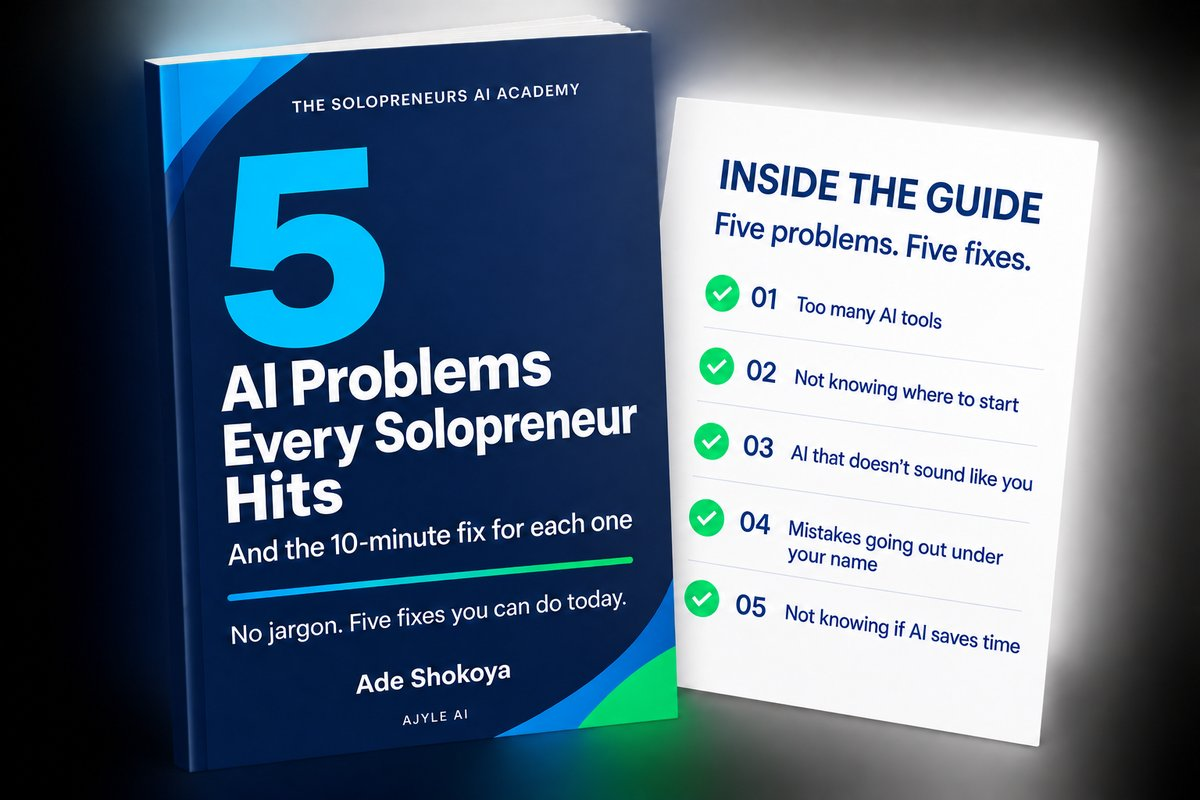
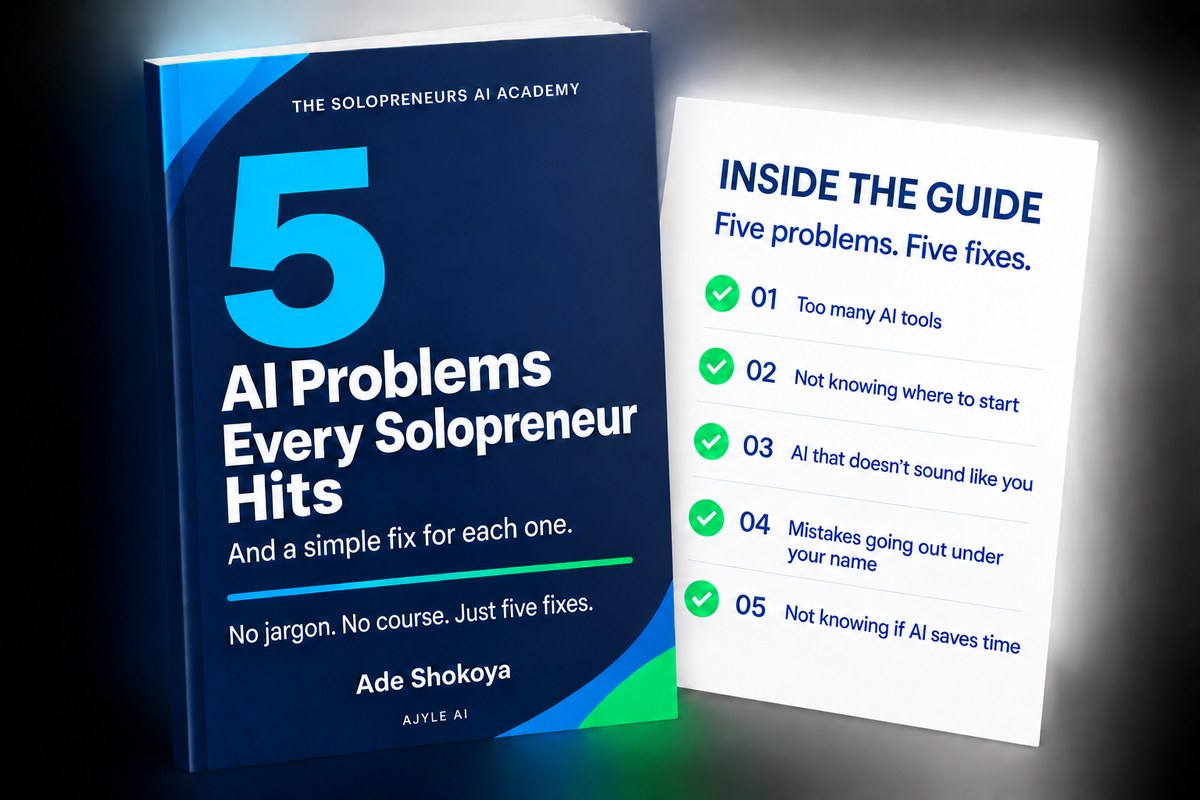
5 AI Problems: new cover image, simple-fix wording, optimised copy, Ade photo
Claude-Session: https://claude.ai/code/session_01RTMGRuNtJioy2D6wLh98dH

diff --git a/public/5-ai-problems/index.html b/public/5-ai-problems/index.html
@@ -6,11 +6,11 @@
 <title>5 AI Problems Every Solopreneur Hits | Free Guide</title>
 <link rel="icon" type="image/svg+xml" href="/favicon.svg">
 <link rel="apple-touch-icon" href="/favicon.svg">
-<meta name="description" content="Free guide for solopreneurs: 5 AI problems every solopreneur hits, and a 10-minute first step for each one. No jargon. No course.">
+<meta name="description" content="Free guide for solopreneurs: 5 AI problems every solopreneur hits, and a simple fix for each one. No jargon. No course.">
 <link rel="canonical" href="https://www.ajyle.ai/5-ai-problems/">
 <meta property="og:type" content="website">
 <meta property="og:title" content="5 AI Problems Every Solopreneur Hits | Free Guide">
-<meta property="og:description" content="Free guide for solopreneurs: 5 AI problems every solopreneur hits, and a 10-minute first step for each one. No jargon. No course.">
+<meta property="og:description" content="Free guide for solopreneurs: 5 AI problems every solopreneur hits, and a simple fix for each one. No jargon. No course.">
 <meta property="og:url" content="https://www.ajyle.ai/5-ai-problems/">
 <meta property="og:image" content="https://www.ajyle.ai/5-ai-problems/guide-preview-og.jpg">
 <link rel="preconnect" href="https://fonts.googleapis.com">
@@ -297,6 +297,7 @@
     text-align:left;
   }
   .ade-photo{
+    object-fit:cover;
     flex-shrink:0;
     width:96px; height:96px;
     border-radius:50%;
@@ -307,6 +308,7 @@
     font-size:34px;
     color:var(--navy);
   }
+  .inside-line{ max-width:620px; margin:12px auto 0; text-align:center; }
   .ade-row p{ font-size:16px; margin-bottom:0; }
   .ade-row .name{
     font-family:'Montserrat', sans-serif;
@@ -388,7 +390,7 @@
         <div class="hero-copy">
           <span class="badge">Free Guide for Solopreneurs</span>
           <h1>5 AI Problems Every Solopreneur Hits<span class="accent">.</span></h1>
-          <p class="sub">And a 10-minute first step for each one. No jargon. No course. Five fixes you can start today.</p>
+          <p class="sub">Spend less time choosing AI tools and more time using one. Each problem comes with a simple fix.</p>
 
           <div class="trust-row">
             <div class="trust-item">
@@ -425,7 +427,7 @@
                 <input type="text" name="b_388d2c1b2280a11391c12d1a2_dff331fbfc" tabindex="-1" value="">
               </div>
               <button type="submit" name="subscribe" class="cta-btn">Send Me The Guide</button>
-              <p class="microcopy">Free. Unsubscribe any time. No spam, ever.</p>
+              <p class="microcopy">Free. Unsubscribe any time.</p>
             </form>
           </div>
         </div>
@@ -447,7 +449,8 @@
   <section class="inside">
     <div class="wrap section-narrow">
       <span class="eyebrow">What's Inside</span>
-      <h2>Five real problems, and the fix for each one.</h2>
+      <h2>Five real problems, and a simple fix for each.</h2>
+      <p class="inside-line">Pick one tool, give it one job, and time one task for a week. You'll know if AI's saving you time.</p>
     </div>
     <div class="wrap">
       <div class="guide-preview">
@@ -457,7 +460,7 @@
       <div class="benefits-grid">
         <div class="benefit-card">
           <span class="check"><svg aria-hidden="true" focusable="false" width="13" height="13" viewBox="0 0 24 24" fill="none"><path d="M5 13l4 4L19 7" stroke="#fff" stroke-width="3" stroke-linecap="round" stroke-linejoin="round"/></svg></span>
-          <p>Why you keep opening tabs instead of working, and the first step that gets you out of it.</p>
+          <p>Why you keep opening tabs instead of working, and the simple fix that gets you out of it.</p>
         </div>
         <div class="benefit-card">
           <span class="check"><svg aria-hidden="true" focusable="false" width="13" height="13" viewBox="0 0 24 24" fill="none"><path d="M5 13l4 4L19 7" stroke="#fff" stroke-width="3" stroke-linecap="round" stroke-linejoin="round"/></svg></span>
@@ -483,8 +486,8 @@
   <section class="from-ade">
     <div class="wrap">
       <div class="ade-row">
-        <div class="ade-photo">AS</div>
-        <p><span class="name">I'm Ade, founder of The Solopreneurs AI Academy.</span> I've spent years helping solopreneurs use AI without the overwhelm. This guide comes from the same five problems I hear every week, from real solopreneurs.</p>
+        <img class="ade-photo" src="/5-ai-problems/ade-avatar.webp" width="96" height="96" alt="Ade Shokoya, founder of The Solopreneurs AI Academy" loading="lazy" decoding="async">
+        <p><span class="name">I'm Ade, founder of The Solopreneurs AI Academy.</span> I hear the same five problems every week in our Q&amp;A calls. Different businesses, same list. This guide is a simple fix for each one.</p>
       </div>
     </div>
   </section>
@@ -492,8 +495,8 @@
   <!-- ============ SOCIAL PROOF ============ -->
   <section class="proof">
     <div class="wrap section-narrow">
-      <span class="eyebrow">Solopreneurs Who've Done This Before You</span>
-      <h2>Real people, real progress.</h2>
+      <span class="eyebrow">People I've trained</span>
+      <h2>What they said on Trustpilot.</h2>
     </div>
     <div class="wrap">
       <div class="proof-grid">
@@ -520,8 +523,8 @@
   <section class="final-cta">
     <div class="wrap">
       <span class="eyebrow on-navy">Ready?</span>
-      <h2>Five problems. Five fixes. One download.</h2>
-      <p class="sub">Enter your details below and it lands straight in your inbox.</p>
+      <h2>Ready to stop comparing tools and start using one?</h2>
+      <p class="sub">Add your details and the guide lands in your inbox.</p>
 
       <div class="final-form">
         <div class="form-card">
@@ -539,7 +542,7 @@
               <input type="text" name="b_388d2c1b2280a11391c12d1a2_dff331fbfc" tabindex="-1" value="">
             </div>
             <button type="submit" name="subscribe" class="cta-btn">Send Me The Guide</button>
-            <p class="microcopy">Free. Unsubscribe any time. No spam, ever.</p>
+            <p class="microcopy">Free. Unsubscribe any time.</p>
           </form>
         </div>
       </div>
@@ -568,7 +571,6 @@
 </script>
 
 <footer>
-  No spam, ever. Just the guide, straight to your inbox.<br>
   &copy; 2026 The Solopreneurs AI Academy, built by Ajyle AI. <a href="/privacy-policy">Privacy policy</a>
 </footer>
 
